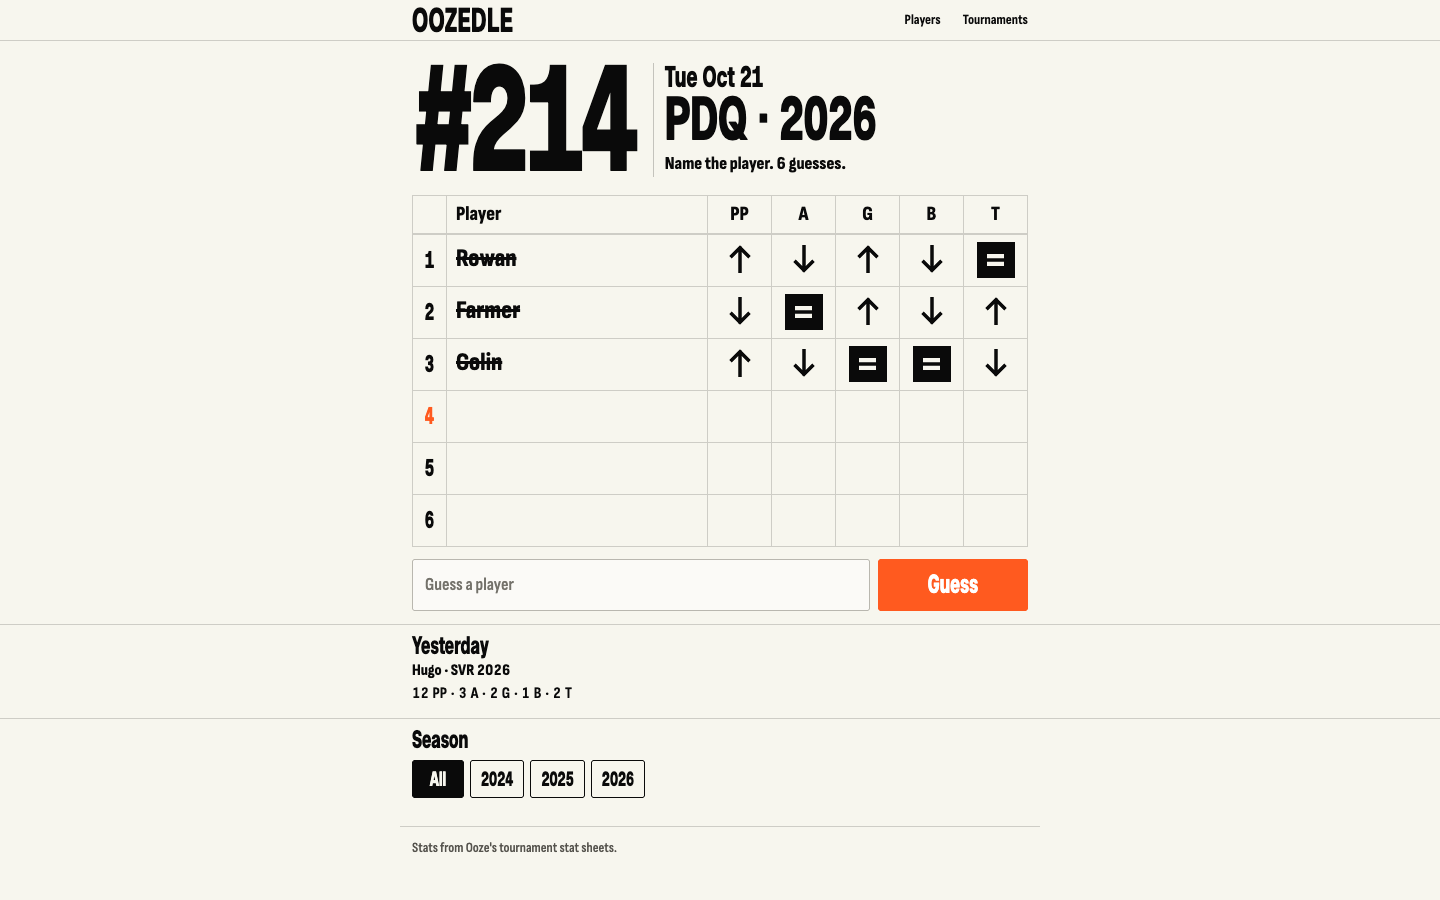
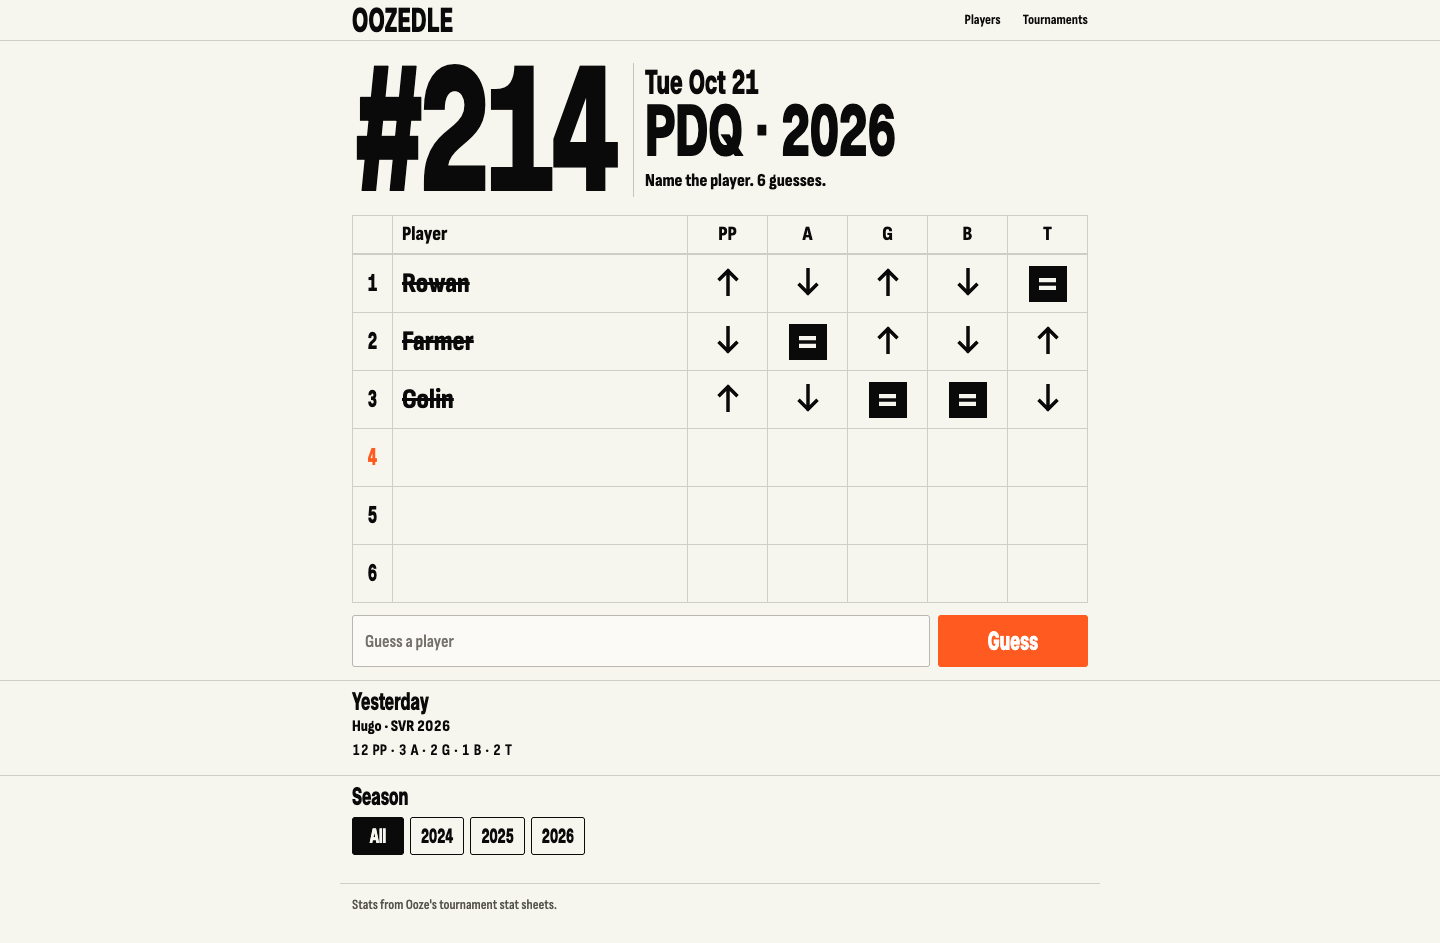
Fix ended game leaving the guess form visible; phone-fit tables; desktop board scale; season chips

diff --git a/static/css/site.css b/static/css/site.css
@@ -82,6 +82,10 @@ a {
   outline-offset: 2px;
 }
 
+[hidden] {
+  display: none !important;
+}
+
 .visually-hidden {
   position: absolute;
   width: 1px;
@@ -236,7 +240,7 @@ main {
 
 .guess-board .row-num {
   font-family: var(--display);
-  font-size: 17px;
+  font-size: 19px;
 }
 
 .guess-board tr.is-current .row-num {
@@ -666,18 +670,22 @@ main.wide {
 }
 .season-rail {
   display: flex;
-  border: 1px solid var(--rule);
-  margin: 24px 0;
+  gap: 6px;
+  margin: 20px 0 8px;
 }
+/* Each season's chip is as wide as its share of tournaments. */
 .season-rail a {
   flex-basis: 0;
-  padding: 10px 4px;
-  border-right: 1px solid var(--rule);
+  padding: 8px 4px;
+  border: 1.5px solid var(--ink);
+  border-radius: 3px;
   text-align: center;
-  font: 700 28px/1 var(--display);
+  text-decoration: none;
+  font: 700 22px/1 var(--display);
 }
-.season-rail a:last-child {
-  border-right: 0;
+.season-rail a:hover {
+  background: var(--ink);
+  color: var(--board);
 }
 .tournament-row {
   display: grid;
@@ -865,5 +873,66 @@ body:has(main.wide) .site-foot {
   .combo input,
   .btn {
     height: 52px;
+  }
+}
+
+/* Text columns read left; the "#" column stays narrow and tables line up. */
+.ledger:not(.ledger--numbered):not(.career) thead th:first-child,
+.ledger--numbered thead th:nth-child(2) {
+  text-align: left;
+}
+.ledger--numbered {
+  table-layout: fixed;
+}
+.ledger--numbered tr > :first-child {
+  position: static;
+  width: 44px;
+  min-width: 0;
+}
+.ledger--numbered tr > :nth-child(2) {
+  width: 38%;
+}
+
+/* Phones: drop the columns that matter least so tables fit without scrolling. */
+@media (max-width: 519px) {
+  .ledger--trim tr > :nth-child(2),
+  .ledger--trim tr > :nth-child(3),
+  .ledger--numbered tr > :first-child {
+    display: none;
+  }
+
+  .ledger--numbered tr > :nth-child(2) {
+    width: 32%;
+  }
+
+  .ledger th,
+  .ledger td {
+    padding: 6px 6px;
+  }
+}
+
+/* Wide screens: the board takes more room. */
+@media (min-width: 1100px) {
+  :root {
+    --col-max: 760px;
+    --row-h: 58px;
+    --stat-w: 80px;
+    --num-w: 40px;
+  }
+
+  .field-number {
+    font-size: 156px;
+  }
+
+  .pool-label {
+    font-size: 64px;
+  }
+
+  .board-date {
+    font-size: 30px;
+  }
+
+  .guess-board .player {
+    font-size: 28px;
   }
 }
